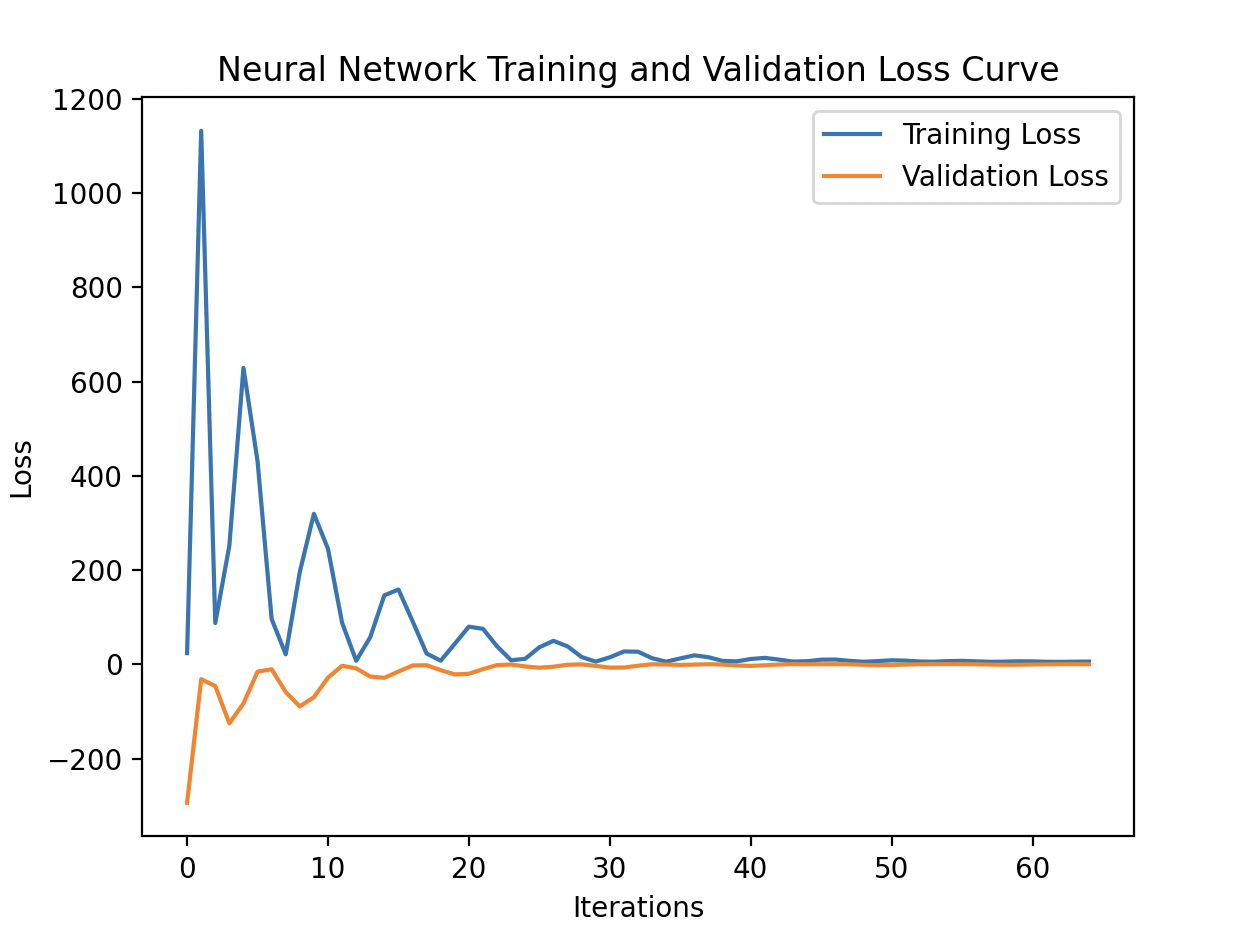
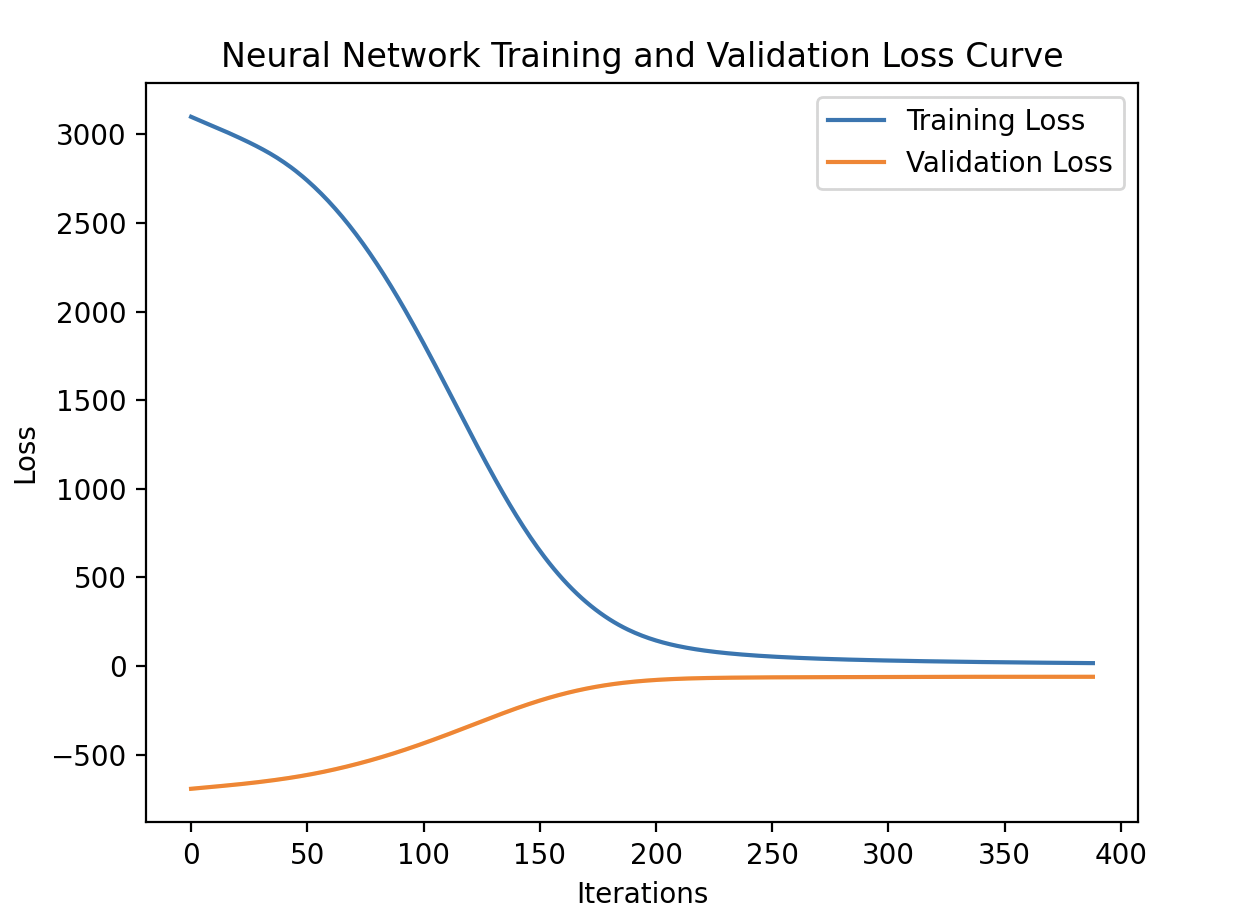
add

diff --git a/training.py b/training.py
@@ -10,6 +10,7 @@ from sklearn.ensemble import RandomForestRegressor, GradientBoostingRegressor
 from sklearn.svm import SVR
 from sklearn.metrics import mean_squared_error, r2_score
 from sklearn.impute import SimpleImputer
+from sklearn.preprocessing import StandardScaler
 
 labels_file = "eye_glucose_data/labels.csv"
 model_file = "eye_glucose_model.pkl"
@@ -21,9 +22,9 @@ def remove_outliers(df):
     IQR = Q3 - Q1
     lower_bound = Q1 - 1.5 * IQR
     upper_bound = Q3 + 1.5 * IQR
-    df_filtered = df[(df["blood_glucose"] >= lower_bound) & (df["blood_glucose"] <= upper_bound)].copy()
-    print(f"Outliers removed. Dataset reduced from {len(df)} to {len(df_filtered)} rows.")
-    return df_filtered
+    df["blood_glucose"] = df["blood_glucose"].clip(lower=lower_bound, upper=upper_bound)
+    print(f"Outliers clipped using IQR method.")
+    return df
 
 def train_model():
     if not os.path.exists(labels_file):
@@ -52,6 +53,10 @@ def train_model():
     imputer = SimpleImputer(strategy='median')
     X = pd.DataFrame(imputer.fit_transform(X), columns=X.columns)
     
+    # Apply feature scaling
+    scaler = StandardScaler()
+    X = pd.DataFrame(scaler.fit_transform(X), columns=X.columns)
+    
     test_size = 0.2 if len(df) > 10 else 0.0
     if test_size == 0.0:
         X_train, y_train = X, y
@@ -63,7 +68,7 @@ def train_model():
         "Linear Regression": LinearRegression(),
         "Ridge Regression": Ridge(alpha=1.0),
         "Lasso Regression": Lasso(alpha=0.1),
-        "Neural Network": MLPRegressor(hidden_layer_sizes=(64, 32), activation='relu', solver='adam', max_iter=500, random_state=42, verbose=True, early_stopping=True, validation_fraction=0.2, n_iter_no_change=10),
+        "Neural Network": MLPRegressor(hidden_layer_sizes=(64, 32), activation='relu', solver='adam', max_iter=1000, random_state=42, verbose=True, early_stopping=True, validation_fraction=0.2, n_iter_no_change=10, learning_rate_init=0.001, alpha=0.01),
         "Random Forest": RandomForestRegressor(n_estimators=100, random_state=42),
         "Gradient Boosting": GradientBoostingRegressor(n_estimators=100, random_state=42),
         "Support Vector Regression": SVR(kernel='rbf', C=100, gamma=0.1)
